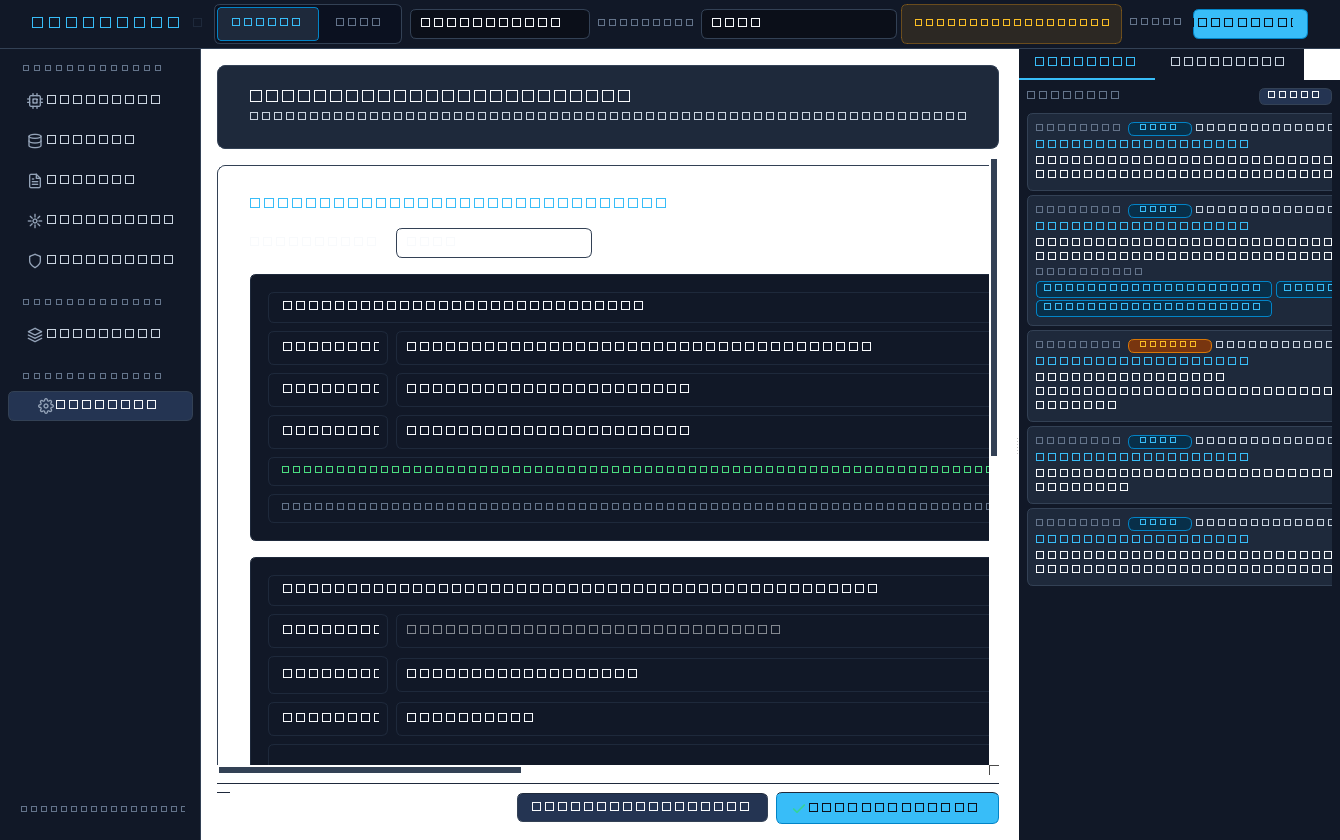
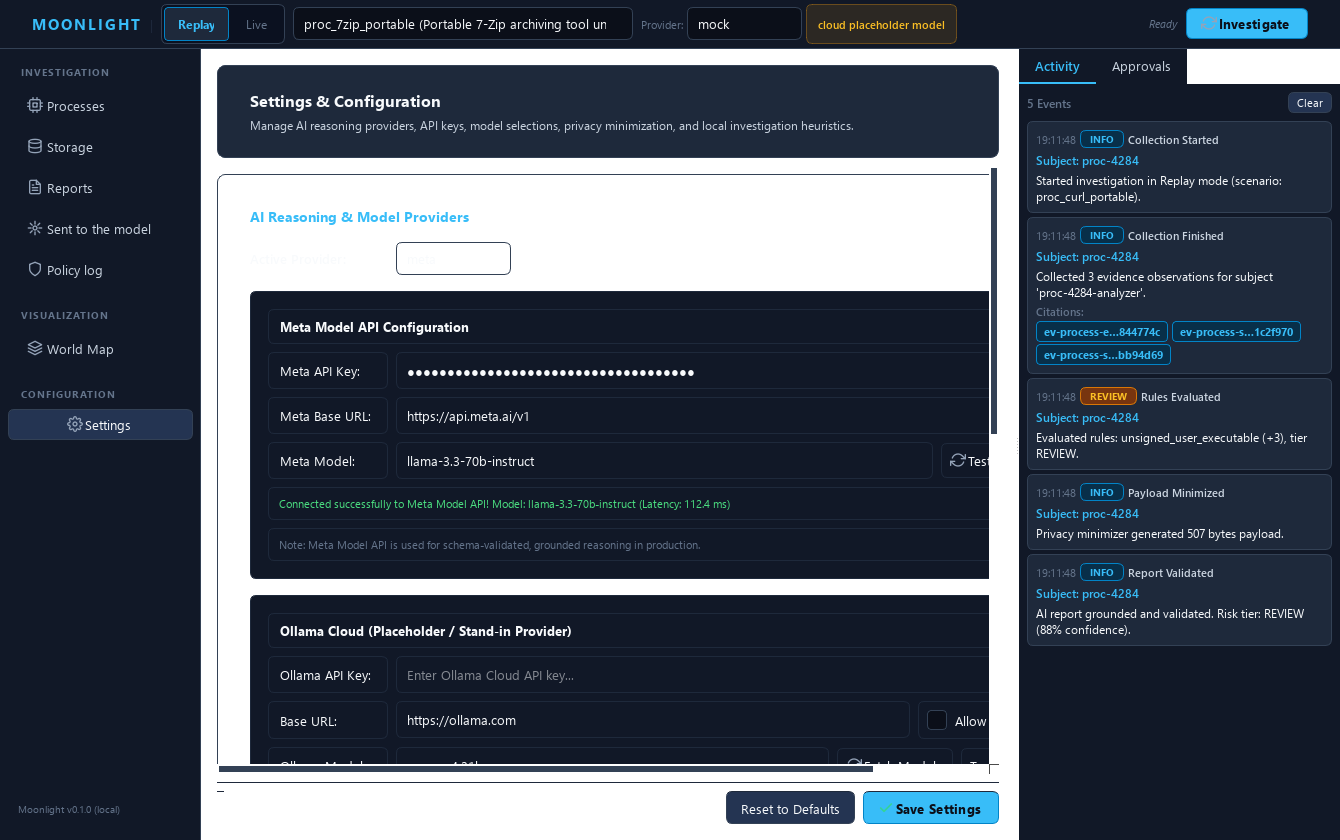
fix(ui): load Windows system fonts in offscreen screenshot generator to eliminate tofu boxes

diff --git a/scripts/generate_ui_screenshots.py b/scripts/generate_ui_screenshots.py
@@ -10,6 +10,7 @@ from pathlib import Path
 # Force offscreen headless Qt rendering
 os.environ["QT_QPA_PLATFORM"] = "offscreen"
 
+from PySide6.QtGui import QFont, QFontDatabase
 from PySide6.QtWidgets import QApplication
 
 from moonlight.core.evidence import (
@@ -32,11 +33,34 @@ from moonlight.ui.events import get_event_bus
 from moonlight.ui.window import MoonlightMainWindow
 
 
+def _ensure_fonts_loaded(app: QApplication) -> None:
+    """Ensure system fonts are loaded into Qt so offscreen rendering has typography."""
+    if sys.platform == "win32":
+        windir = os.environ.get("WINDIR", "C:\\Windows")
+        fonts_dir = Path(windir) / "Fonts"
+        font_files = [
+            "segoeui.ttf",
+            "segoeuib.ttf",
+            "segoeuii.ttf",
+            "segoeuiz.ttf",
+            "seguisb.ttf",
+            "arial.ttf",
+            "arialbd.ttf",
+        ]
+        for name in font_files:
+            font_path = fonts_dir / name
+            if font_path.exists():
+                QFontDatabase.addApplicationFont(str(font_path))
+
+    app.setFont(QFont("Segoe UI", 10))
+
+
 def generate_screenshots() -> None:
     """Capture offscreen screenshots of the review interface."""
     app = QApplication.instance()
     if not isinstance(app, QApplication):
         app = QApplication(sys.argv)
+    _ensure_fonts_loaded(app)
 
     out_dir = Path(__file__).resolve().parents[1] / "docs" / "images"
     out_dir.mkdir(parents=True, exist_ok=True)
